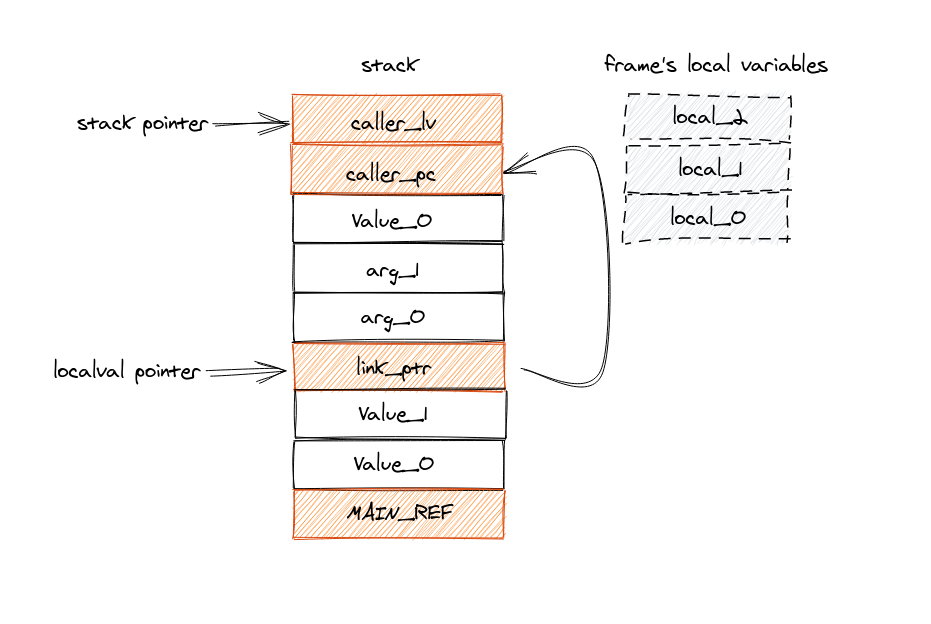
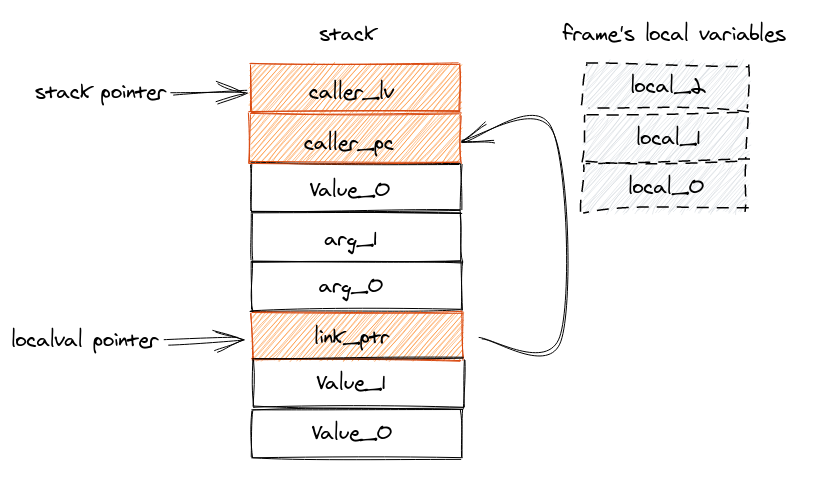
final 2

Changed region(s): [[0.0, 0.0298, 0.9685, 0.9226], [0.6053, 0.6845, 0.6659, 0.7143]]

diff --git a/include/stack.h b/include/stack.h
@@ -2,7 +2,6 @@
 #define STACK_H
 #include "ijvm.h"
 
-#define MAINREF 0xFFFFFFFF
 #define LOCAL_MAX (1<<16)
 #define MAX_FRAME 1000
 #define MAX_LV 100
@@ -12,7 +11,7 @@ typedef struct Stack {
 	word_t lv;
 	word_t* Array;
 	word_t capacity;
-
+	
 	word_t** frameLocalVar;
 	word_t frameIndex;
 } Stack;

diff --git a/src/state.c b/src/state.c
@@ -87,7 +87,6 @@ void initializeStack(){
 	machine._stack_->frameIndex = 0;
 	machine._stack_->sp = -1;
 	machine._stack_->lv = 0;
-	push(MAINREF);
 }
 
 void initializeHeap(){

diff --git a/README.md b/README.md
@@ -32,7 +32,7 @@ $ ./ijvm <binary_file_directory>
 ```
 ## Implementations
 ### Stack
-The stack was implemented accordingly to the *Structured computer organization* by Andrew S. Tanenbaum. Each frame is bounded by the **Stack pointer** and **Local variables pointer**. For the ease of implementating the stack, I append an object called **MAINREF** at the bottom, which lets us know if we are at the main frame (frame 0) or not.  
+The stack was implemented accordingly to the *Structured computer organization* by Andrew S. Tanenbaum. Each frame is bounded by the **Stack pointer** and **Local variables pointer**. For the ease of implementating the stack, I created an array storing local variables for each frame. 
 
 ![stack_img](https://github.com/khanhvu207/Integer-Java-Virtual-Machine/blob/master/img/stack.png)
 
